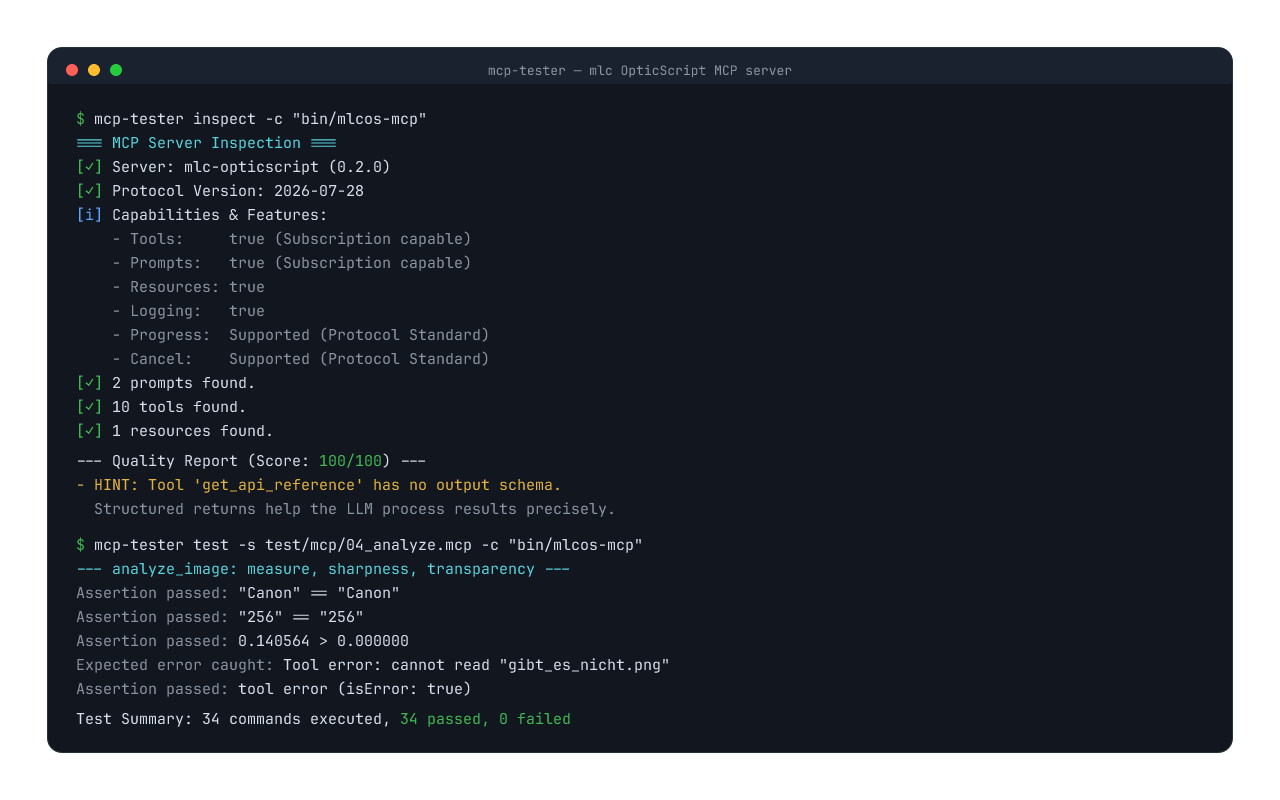
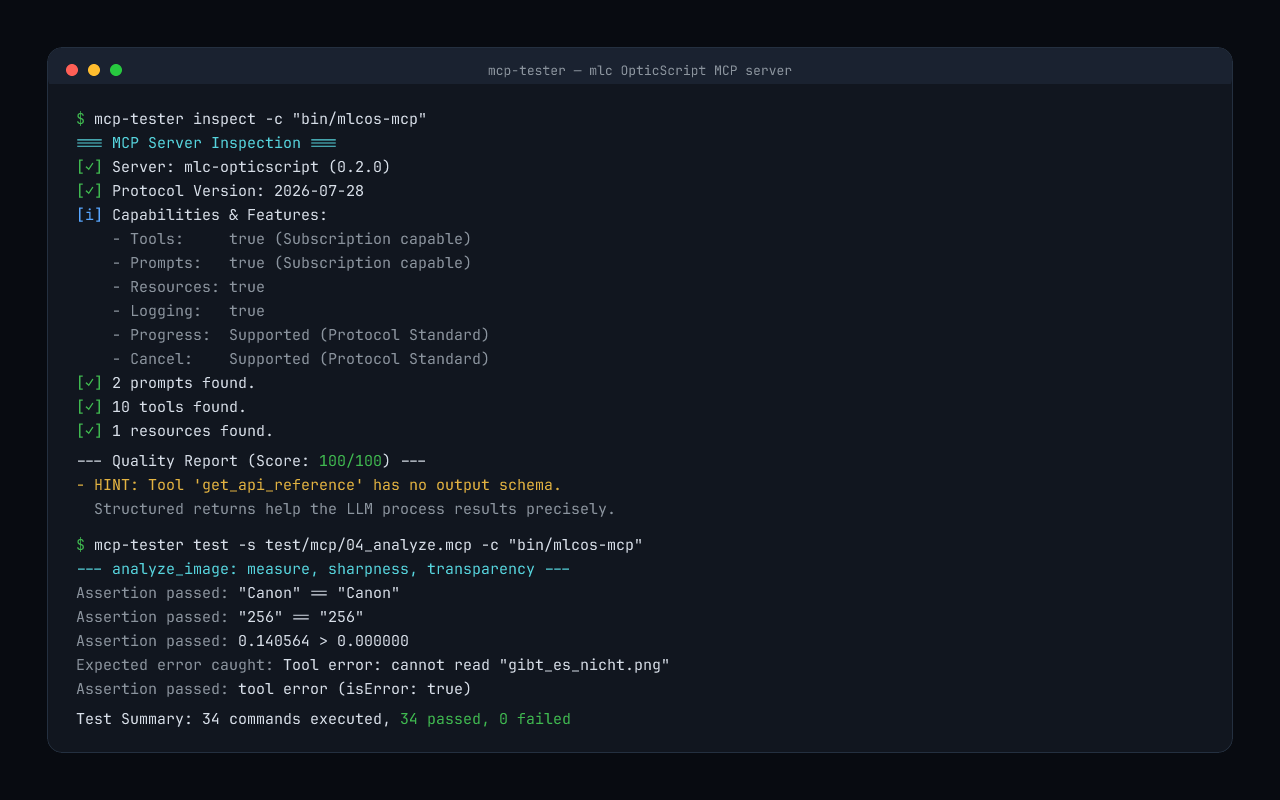
fix(assets): Terminalbild deckend, Setzskript berichtigt
`Engine.createImage(w, h, BG)` nimmt keine Farbe — das dritte Argument
wird stillschweigend ignoriert und das Bild bleibt transparent. Das
ausgelieferte Bild hatte deshalb einen durchsichtigen Rand (18,25 % der
Pixel nicht deckend), der auf der Produktseite und im README die
Seitenfarbe durchscheinen liess statt des gedachten Dunkelblaus.

Richtig ist `Engine.createColoredImage`. Bild neu gesetzt, gleiche
Groesse und Dateigroesse, jetzt jeder Pixel deckend.

Changed region(s): [[0.0, 0.0, 1.0, 1.0]]

diff --git a/docs/assets/screenshot.opticscript.js b/docs/assets/screenshot.opticscript.js
@@ -16,7 +16,10 @@ const MONO = "JetBrains Mono";
 const SIZE = 15, CH = SIZE * 0.6, LH = 24;
 
 // ── Fenster ────────────────────────────────────────────────────────
-const img = Engine.createImage(W, H, BG);
+// createImage(w, h) nimmt keine Farbe — ein drittes Argument wird still
+// ignoriert, und das Bild bleibt durchsichtig. Genau das war es: der Rand
+// des ersten Bildes war transparent, auf der Produktseite also weiss.
+const img = Engine.createColoredImage(W, H, BG);
 const cv = Engine.createCanvas(W, H);
 
 function rounded(cvs, x, y, w, h, r, color) {
